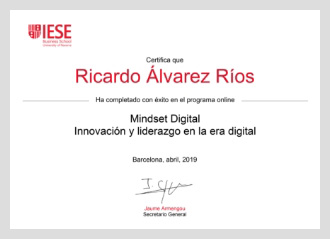
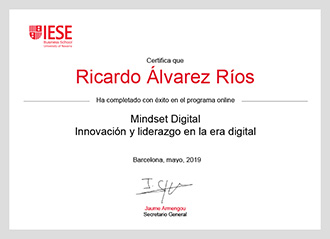
ajustes de fechas

diff --git a/index.php b/index.php
@@ -42,7 +42,7 @@
         }
         $queryString = implode("&", $queryStringArray);
     ?>
-    <!-- Header Fixed -->
+    <!-- Sección Header Fixed -->
     <header>
         <div class="header-container">
             <img class="Logo-one" src="assets/img/svg/IESE-Business-School.svg" alt="IESE">
@@ -58,13 +58,13 @@
     </header>
     <!-- Body -->
     <div class="space"></div>
-    <!-- Hero Image -->
+    <!-- Sección Hero Image -->
     <div class="hero-container">
         <div class="hero-title">
             <div class="title grapRe fs18 rojoFF">NUEVO PROGRAMA ONLINE</div>
             <div class="title grapBo fs32 negro19">Mindset Digital</div>
             <div class="title grapBo fs20 negro19">Innovación y liderazgo en la era digital</div>
-            <div class="title grapRe fs24 negro23">01 / 04 / 2019</div>
+            <div class="title grapRe fs24 negro23">20 / 05 / 2019</div>
             <div class="hero-title-time">
                 <div class="desc grapRe fs16 negro19">8 SEMANAS</div>
                 <div class="desc movil grapRe fs16 negro19">6-8 HORAS POR SEMANA</div>

diff --git a/Thanks.php b/Thanks.php
@@ -4,7 +4,7 @@
 <head>
     <meta charset="UTF-8">
     <meta name="viewport" content="width=device-width, initial-scale=1.0">
-  <meta http-equiv="refresh" CONTENT="1;URL= https://bit.ly/2Ehoosi">
+    <!-- <meta http-equiv="refresh" CONTENT="1;URL= https://bit.ly/2Ehoosi"> -->
     <meta http-equiv="X-UA-Compatible" content="ie=edge">
     <title>¡Gracias por tu interés!</title>
     <link rel="stylesheet" href="assets/scss/stylesheet.css">
@@ -32,7 +32,7 @@
                     "Mindset Digital: Innovación y liderazgo en la era digital”
                 </div>
                 <div class="grapRe fs18 negro46">
-                    Si tu descarga no comienza <a class=" grapBo rojo39" href="https://bit.ly/2Ehoosi">da click aquí</a>
+                    Para ver el folleto digital <a class=" grapBo rojo39" href="https://fr.zone-secure.net/86686/.iese_mindset_digital/">da click aquí</a>
                 </div>
             </div>
             <div class="gracias-linea"></div>
